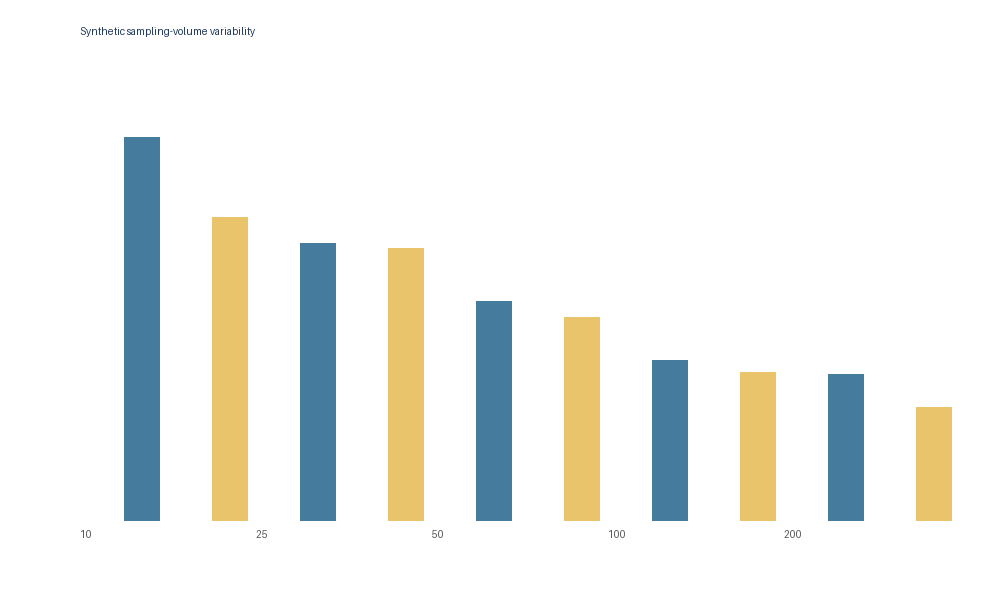
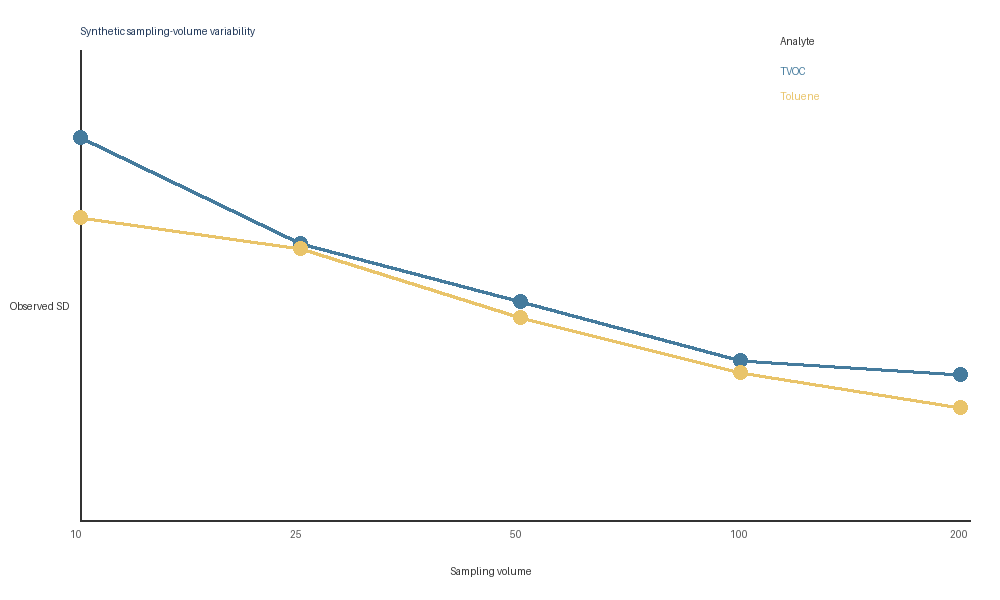
Restore line plot for sampling-volume variability

diff --git a/src/visualization.py b/src/visualization.py
@@ -91,6 +91,32 @@ def _fallback_generate(participants: pd.DataFrame, sampling: pd.DataFrame) -> li
         draw = ImageDraw.Draw(image)
         draw.text((margin, 25), title, fill="#1d3557")
         source = summary if grouping == "sampling_volume" else summarize_chambers(sampling)
+        if name == "sampling_volume_variability.png":
+            draw.line((margin, height - margin, width - 30, height - margin), fill="#333", width=2)
+            draw.line((margin, 50, margin, height - margin), fill="#333", width=2)
+            max_value = float(source[value_col].max()) * 1.15
+            groups = sorted(source[grouping].unique())
+            colors = {"TVOC": "#457b9d", "Toluene": "#e9c46a"}
+            for analyte, color in colors.items():
+                subset = source[source["analyte"] == analyte].sort_values(grouping)
+                points = []
+                for _, row in subset.iterrows():
+                    x_index = groups.index(row[grouping])
+                    x = margin + x_index / max(1, len(groups) - 1) * (width - margin - 40)
+                    y = height - margin - row[value_col] / max_value * (height - margin - 80)
+                    points.append((x, y))
+                draw.line(points, fill=color, width=4)
+                for x, y in points:
+                    draw.ellipse((x - 7, y - 7, x + 7, y + 7), fill=color)
+                draw.text((width - 220, 65 + list(colors).index(analyte) * 25), analyte, fill=color)
+            for i, group in enumerate(groups):
+                x = margin + i / max(1, len(groups) - 1) * (width - margin - 40)
+                draw.text((x - 10, height - margin + 8), str(group), fill="#555")
+            draw.text((width // 2 - 50, height - 35), "Sampling volume", fill="#333")
+            draw.text((10, height // 2), "Observed SD", fill="#333")
+            draw.text((width - 220, 35), "Analyte", fill="#333")
+            path = FIGURE_DIR / name; image.save(path); outputs.append(path)
+            continue
         max_value = float(source[value_col].max()) * 1.15
         groups = list(source[grouping].unique())
         for i, group in enumerate(groups):
